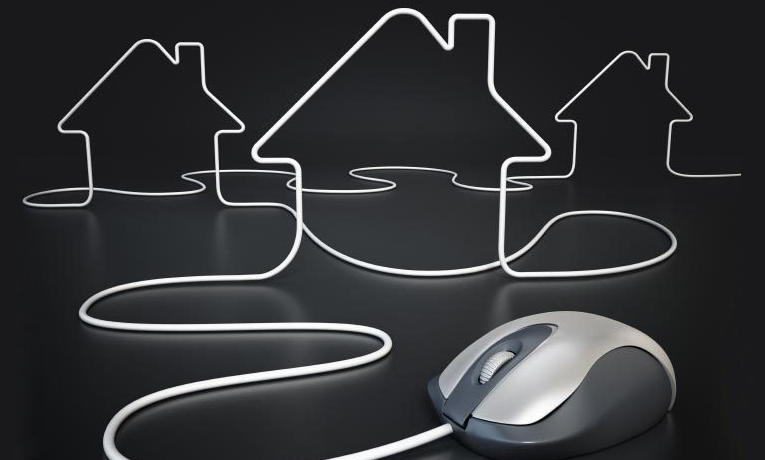
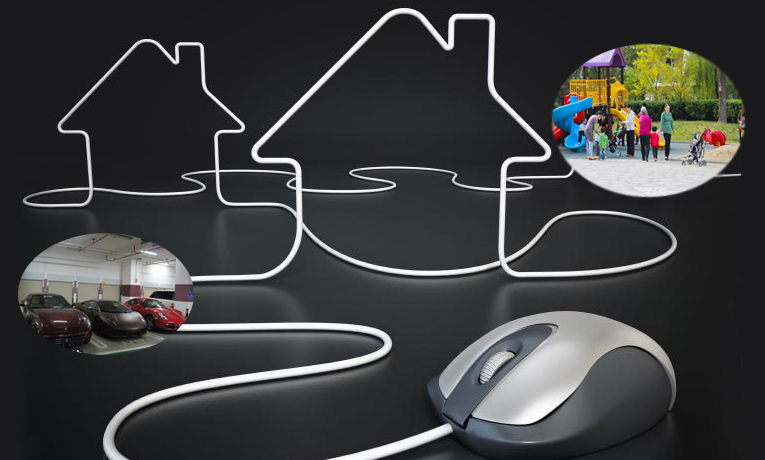
图片修改

Changed region(s): [[0.7216, 0.0913, 0.9922, 0.4565], [0.0, 0.487, 0.2706, 0.7913]]

diff --git a/index.html b/index.html
@@ -133,7 +133,7 @@
         <div class="col-lg-4 col-md-4">
           <h3>智慧社区</h3>
           <p>
-            业主在家中可随时调看儿童游乐区、园区休闲区、地下车库,园区入口访客等视频图像，实时园区看护，体现了对家人的关爱;车位实时看护，一旦发生非法占用，刮擦，可疑人员，可即时通知业主及管理人员。
+            业主在家中可随时调看儿童游乐区、园区休闲区、地下车库,园区入口访客等视频图像，实时园区看护，体现了对家人的关爱；车位实时看护，一旦发生非法占用，刮擦，可疑人员，可即时通知业主及管理人员。
           </p>
         </div>
       </div>
